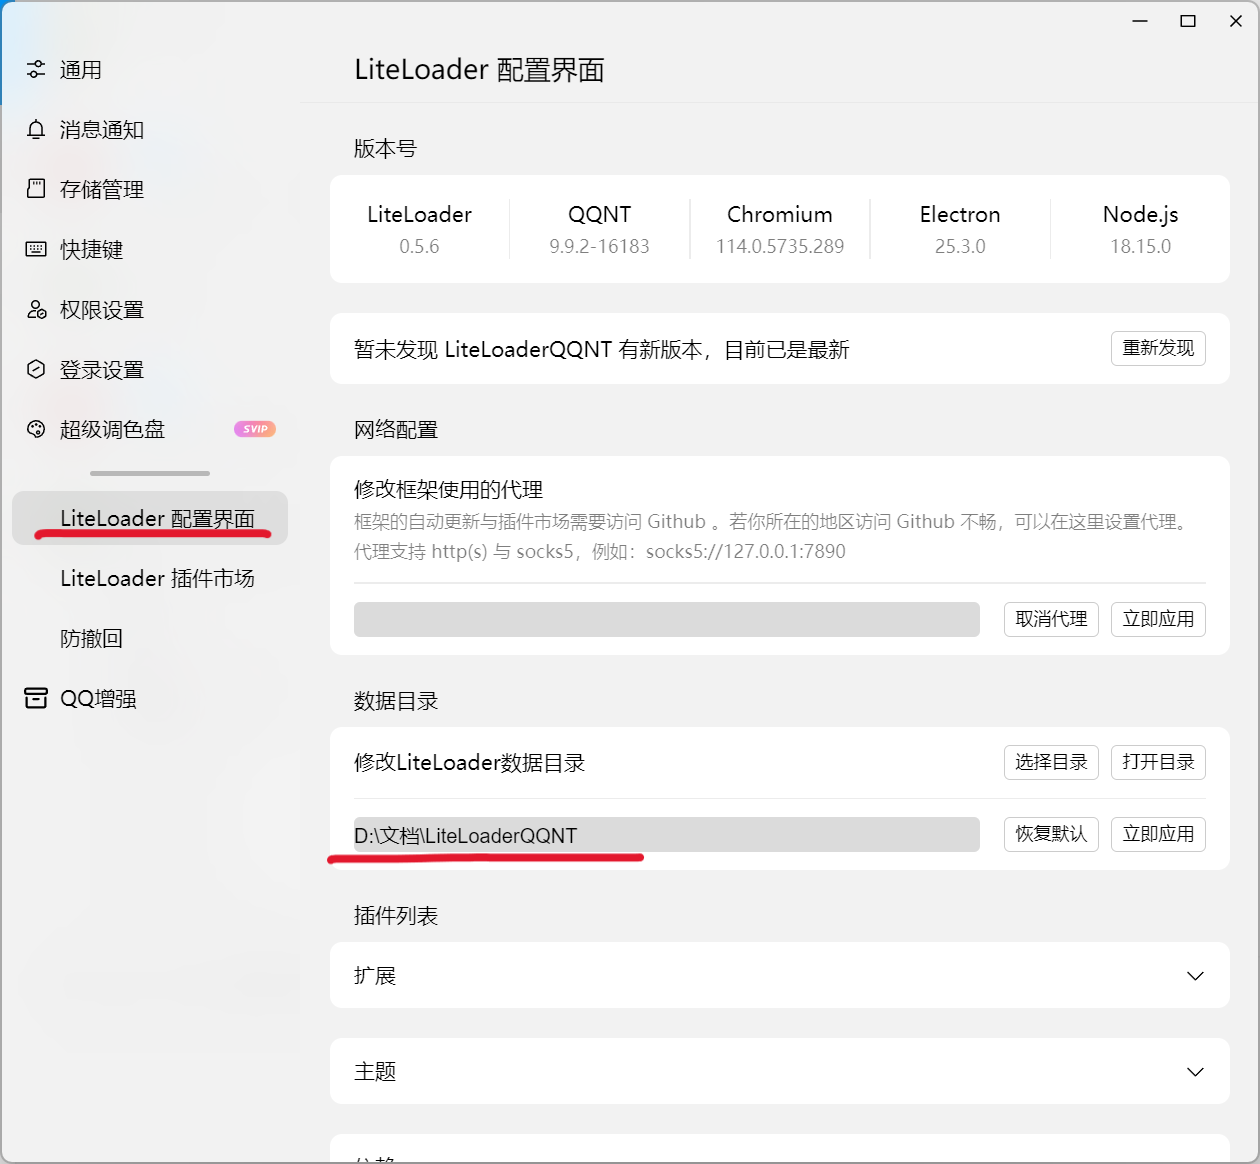
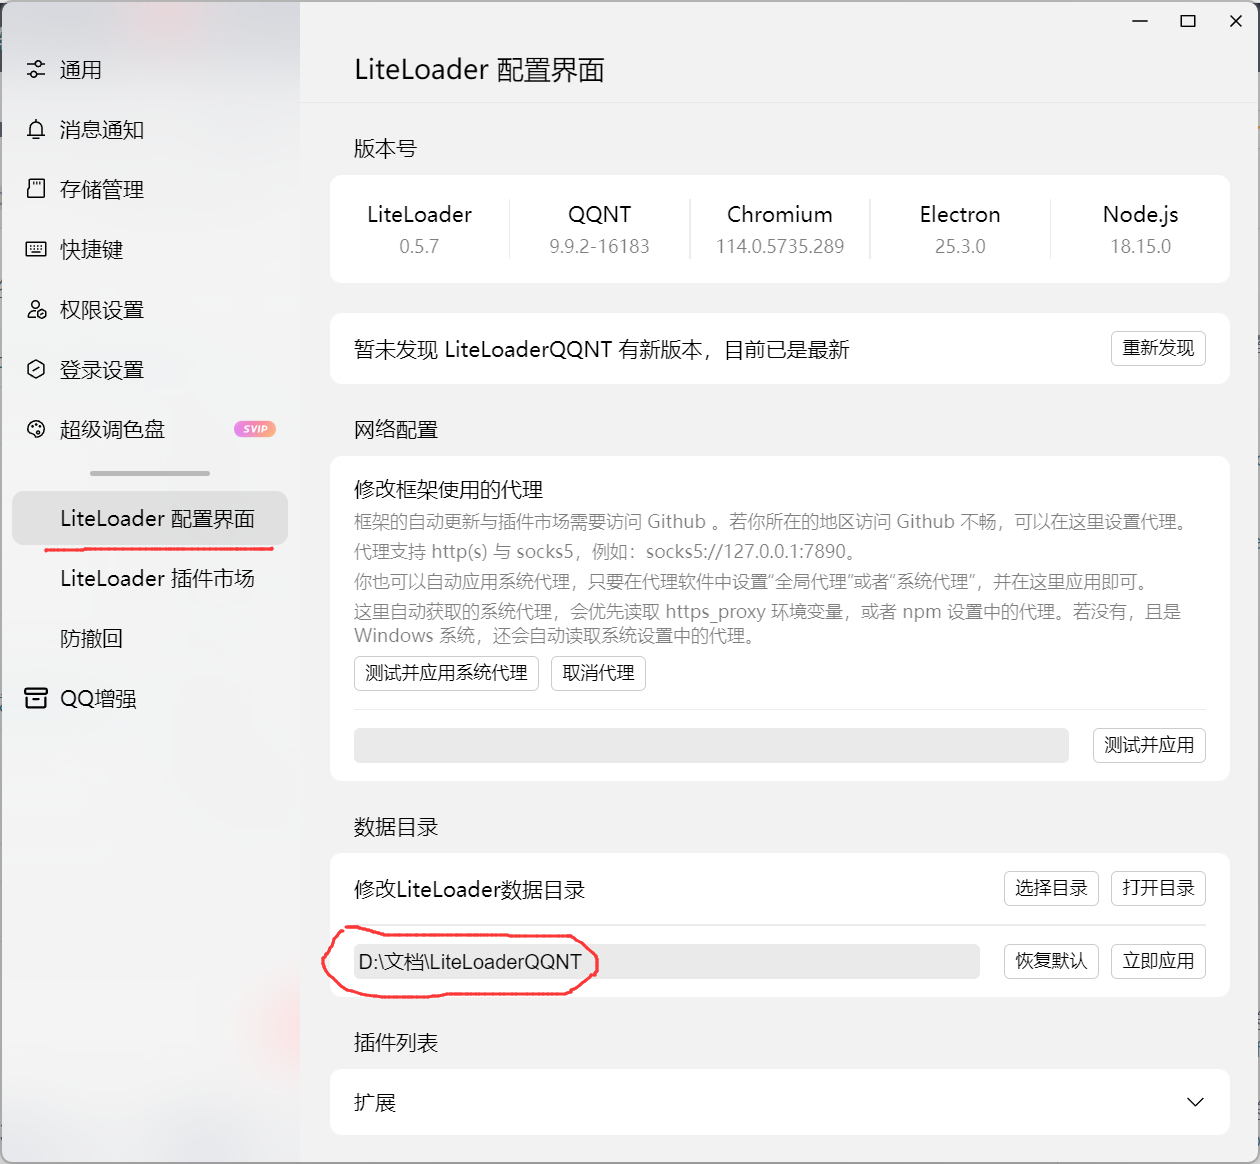
update NTQQ/README.md.

diff --git a/NTQQ/README.md b/NTQQ/README.md
@@ -7,7 +7,7 @@
 3. 解压LiteLoaderQQNT.zip并将压缩包内的LiteLoader文件夹放到QQNT安装目录下的resources/app文件夹内
 4. 将LiteLoaderQQNT-Launcher_x64.exe放到QQNT安装目录下（记得右键发送到桌面快捷方式）
 5. 右键以管理员运行LiteLoaderQQNT-Launcher_x64.exe（启动失败的直接双击启动），登录机器人QQ
-6. 解压LiteLoaderQQNT-Plugin-Chronocat-master.zip并将压缩包内的LiteLoaderQQNT-Plugin-Chronocat-master文件夹放到LiteLoader数据目录下的plugins文件夹内（NTQQ主页左下角三条横杠，点击后点设置，在LiteLoader配置界面可以看到，打开即可）并重启QQ
+6. 解压LiteLoaderQQNT-Plugin-Chronocat-master.zip并将压缩包内的LiteLoaderQQNT-Plugin-Chronocat-master文件夹放到LiteLoader数据目录下的plugins文件夹内（NTQQ主页左下角三条横杠，点击后点设置，在LiteLoader配置界面可以看到，图中画圈部分就是，打开即可）并重启QQ
 ![image](image/image.png)
 7. 将apps.js放到Miao-Yunzai根目录下
 8. 克隆[ws-plugin](https://gitee.com/xiaoye12123/ws-plugin)插件的red分支
